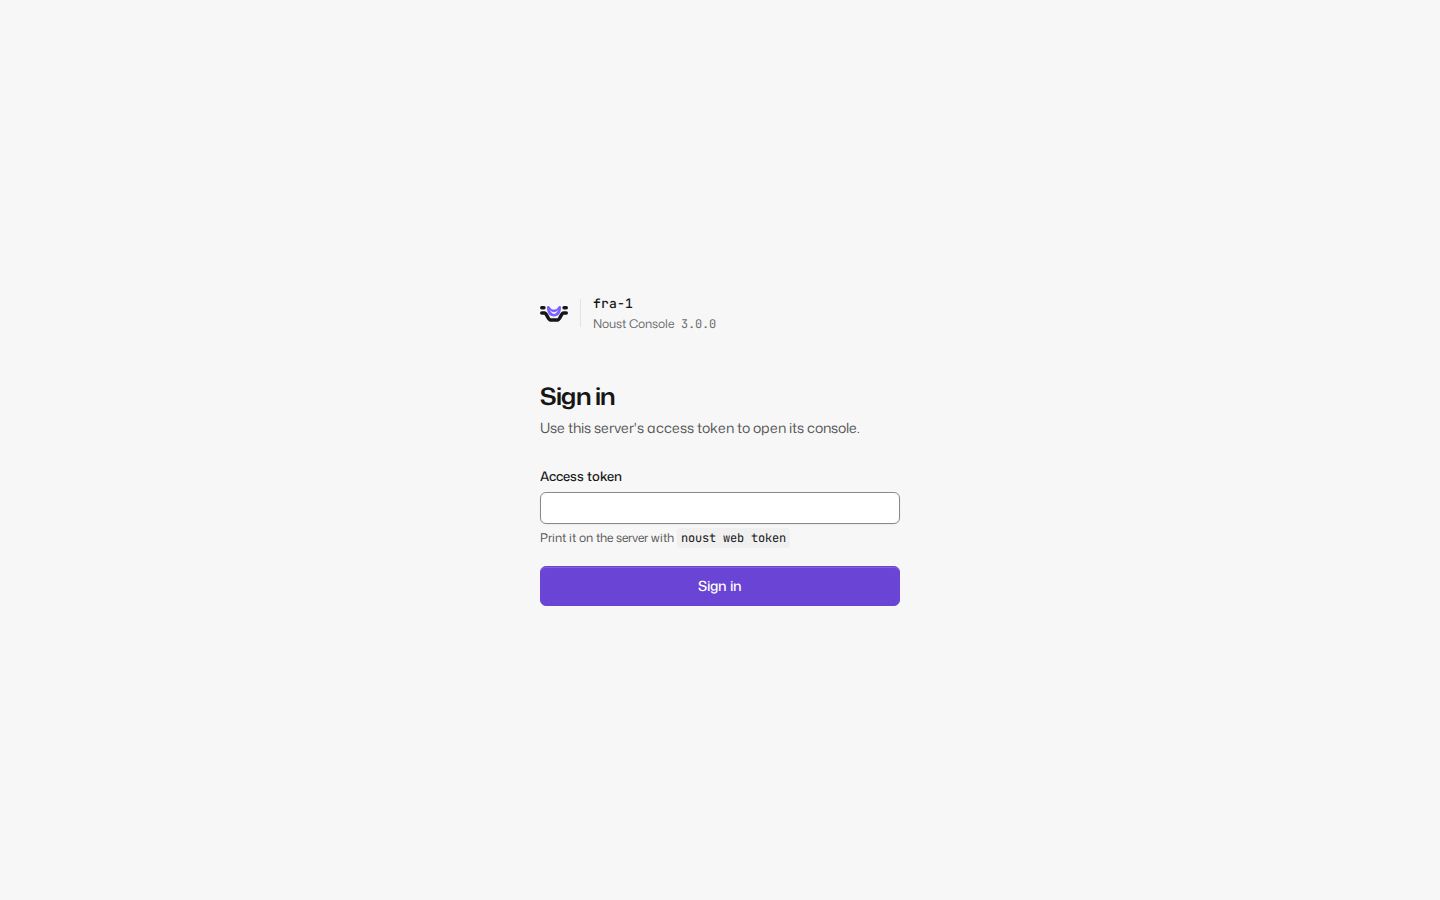
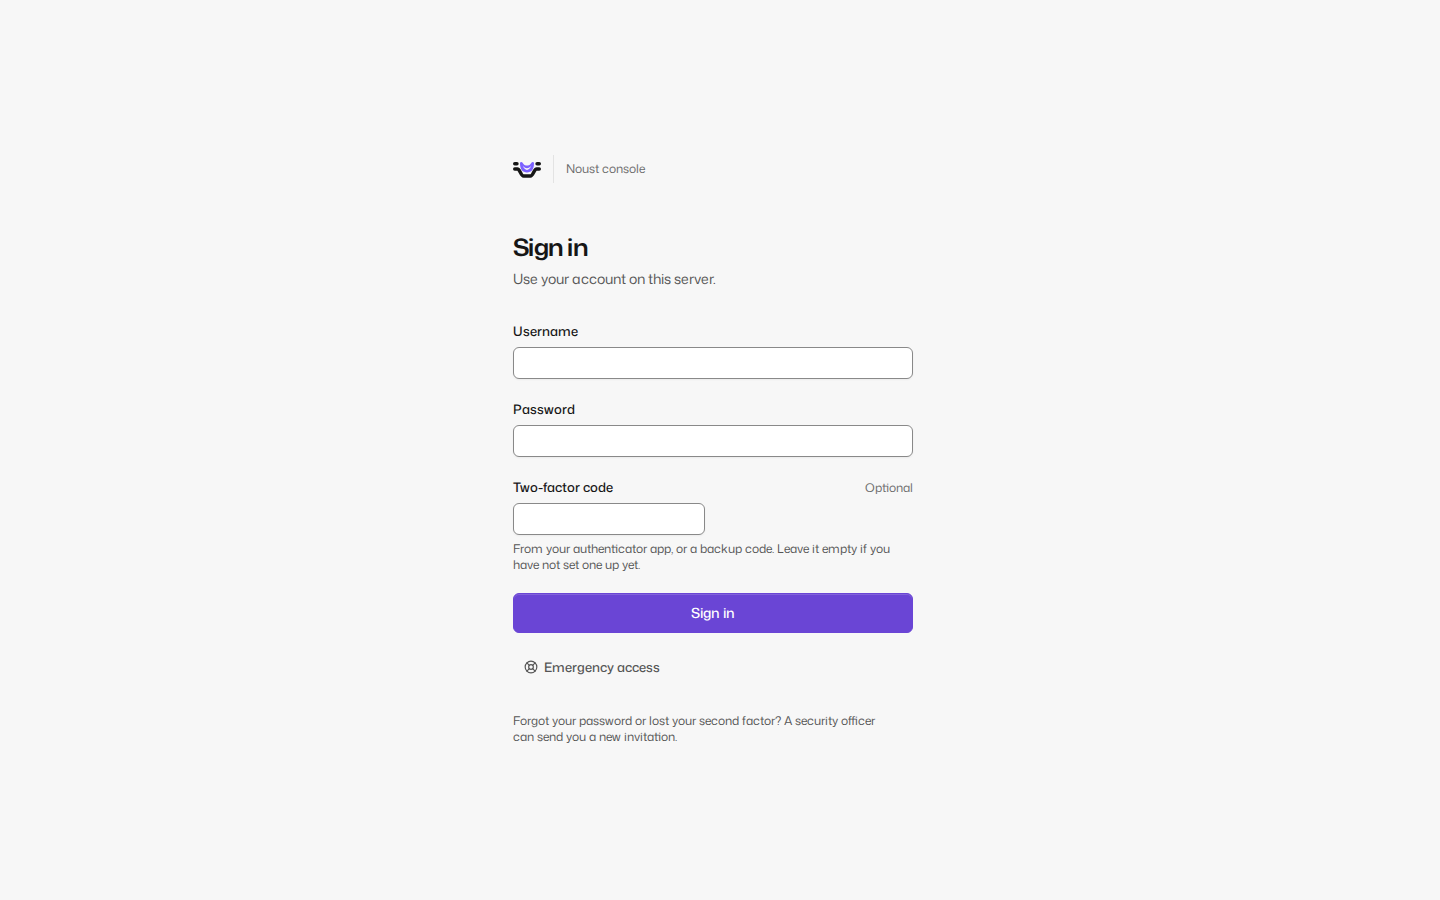
v3.1.0: Accounts and roles, the server, a real fleet, databases, safe builds and a design system

diff --git a/src/noust/__init__.py b/src/noust/__init__.py
@@ -14,7 +14,7 @@ from importlib.metadata import version as _installed_version
 #: as an OBS build directory. The single source of truth is the ``version``
 #: field of pyproject.toml; ``scripts/release.py`` keeps this literal and the
 #: distribution packaging files in step with it.
-_FALLBACK_VERSION = "3.0.0"
+_FALLBACK_VERSION = "3.1.0"
 
 #: The distribution names this package has been published under: ``noust``
 #: from 3.0, ``wasm-cli`` before (and as the transitional package after).

diff --git a/setup.py b/setup.py
@@ -9,7 +9,7 @@ from setuptools import setup, find_packages
 
 setup(
     name="noust",
-    version="3.0.0",
+    version="3.1.0",
     description="Noust - deploy and manage web applications on Linux servers",
     url="https://github.com/Perkybeet/noust",
     author="Yago López Prado",
